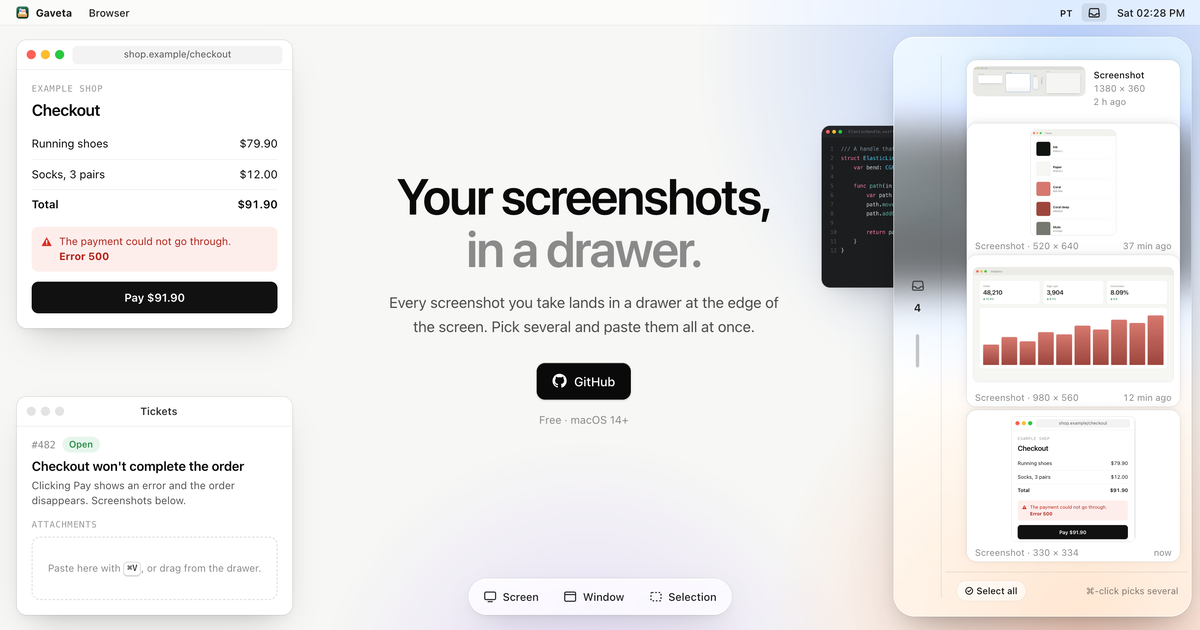
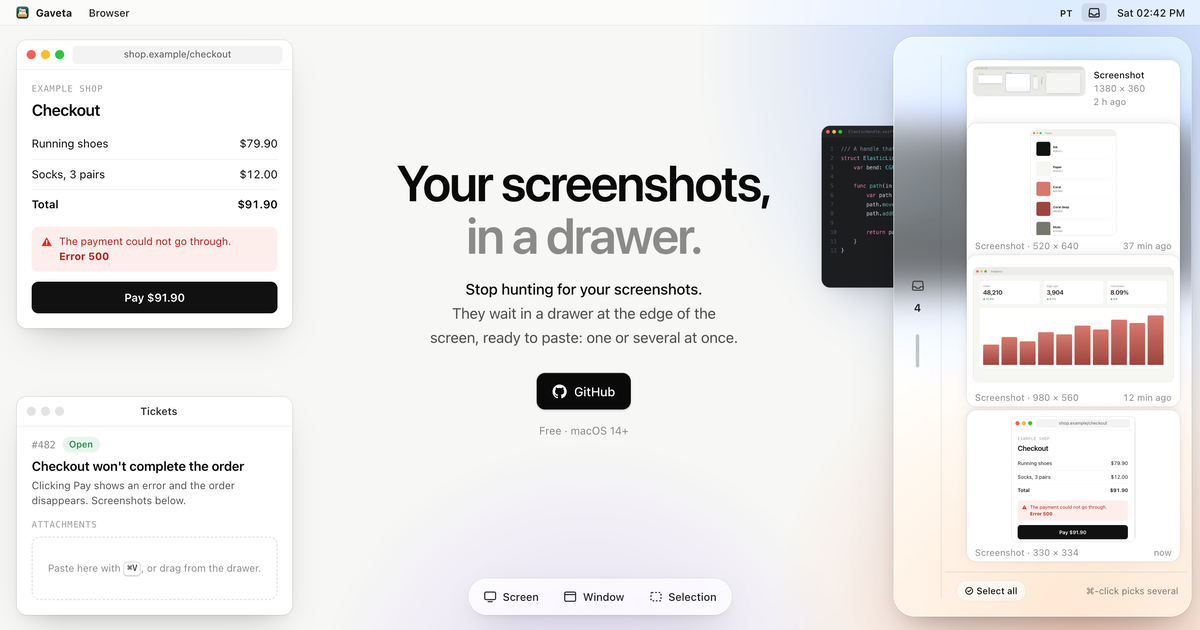
Abertura: "Pare de procurar seus prints."
O gancho fica numa linha própria, e logo depois a finalidade do app:
os prints ficam numa gaveta na borda da tela, prontos para colar, um ou
vários de uma vez. As descrições da página e da prévia de link seguem.

Changed region(s): [[0.3083, 0.2714, 0.6475, 0.4222], [0.3392, 0.4524, 0.6475, 0.5429], [0.4317, 0.573, 0.5242, 0.6937]]

diff --git a/site/en/index.html b/site/en/index.html
@@ -5,9 +5,9 @@
 <meta name="viewport" content="width=device-width, initial-scale=1, viewport-fit=cover">
 <script>try { if (localStorage.getItem("gaveta-idioma") === "pt") location.replace("../" + location.hash); } catch {}</script>
 <title>Gaveta: your screenshots in a drawer, on the Mac</title>
-<meta name="description" content="Every screenshot you take lands in a drawer at the edge of your Mac's screen. Pick several and paste them all at once. Free and open source.">
+<meta name="description" content="Stop hunting for your screenshots. On your Mac, they wait in a drawer at the edge of the screen, ready to paste: one or several at once. Free and open source.">
 <meta property="og:title" content="Gaveta: your screenshots in a drawer, on the Mac">
-<meta property="og:description" content="Every screenshot you take lands in a drawer at the edge of the screen. Pick several and paste them all at once.">
+<meta property="og:description" content="Stop hunting for your screenshots. They wait in a drawer at the edge of the screen, ready to paste: one or several at once.">
 <meta property="og:type" content="website">
 <meta property="og:locale" content="en_US">
 <meta property="og:locale:alternate" content="pt_BR">
@@ -101,7 +101,9 @@ kbd {
 }
 .titulo { margin: 0; font-size: clamp(2.4rem, 4.2vw, 4.4rem); line-height: 1.04; font-weight: 600; letter-spacing: -0.032em; text-wrap: balance; }
 .titulo span { color: var(--tinta-muda); }
-.intro { max-width: 30rem; margin: 1.2rem auto 0; color: var(--tinta-suave); font-size: clamp(1rem, 1.25vw, 1.125rem); line-height: 1.6; text-wrap: pretty; }
+.intro { max-width: 30rem; margin: 1.2rem auto 0; color: var(--tinta-suave); font-size: clamp(1rem, 1.25vw, 1.125rem); line-height: 1.6; text-wrap: balance; }
+/* the hook on a line of its own, a shade darker than the rest */
+.intro-gancho { display: block; color: var(--tinta); font-weight: 500; }
 .botao {
   display: inline-flex; align-items: center; gap: 0.55rem; height: 44px; margin-top: 1.75rem; padding: 0 1.2rem; border-radius: 10px;
   background: var(--tinta); color: var(--branco); font: 500 0.9375rem var(--sans); text-decoration: none;
@@ -481,7 +483,7 @@ kbd {
 
   <section class="abertura" aria-labelledby="titulo">
     <h1 class="titulo" id="titulo">Your screenshots,<br><span>in a drawer.</span></h1>
-    <p class="intro">Every screenshot you take lands in a drawer at the edge of the screen. Pick several and paste them all at once.</p>
+    <p class="intro"><span class="intro-gancho">Stop hunting for your screenshots.</span> They wait in a drawer at the edge of the screen, ready to paste: one or several at once.</p>
     <a class="botao" href="https://github.com/Frasca-99/gaveta">
       <svg viewBox="0 0 16 16" aria-hidden="true"><path fill="currentColor" d="M8 0C3.58 0 0 3.58 0 8c0 3.54 2.29 6.53 5.47 7.59.4.07.55-.17.55-.38 0-.19-.01-.82-.01-1.49-2.01.37-2.53-.49-2.69-.94-.09-.23-.48-.94-.82-1.13-.28-.15-.68-.52-.01-.53.63-.01 1.08.58 1.23.82.72 1.21 1.87.87 2.33.66.07-.52.28-.87.51-1.07-1.78-.2-3.64-.89-3.64-3.95 0-.87.31-1.59.82-2.15-.08-.2-.36-1.02.08-2.12 0 0 .67-.21 2.2.82.64-.18 1.32-.27 2-.27.68 0 1.36.09 2 .27 1.53-1.04 2.2-.82 2.2-.82.44 1.1.16 1.92.08 2.12.51.56.82 1.27.82 2.15 0 3.07-1.87 3.75-3.65 3.95.29.25.54.73.54 1.48 0 1.07-.01 1.93-.01 2.2 0 .21.15.46.55.38A8.01 8.01 0 0 0 16 8c0-4.42-3.58-8-8-8z"/></svg>
       GitHub

diff --git a/site/index.html b/site/index.html
@@ -10,9 +10,9 @@
   if (chosen === "en" || (!chosen && !robot && !portuguese)) location.replace("en/" + location.hash);
 } catch {}</script>
 <title>Gaveta: seus prints numa gaveta, no Mac</title>
-<meta name="description" content="Cada print que você tira cai numa gaveta de vidro na borda da tela do Mac. Escolha vários e cole todos de uma vez. Grátis e de código aberto.">
+<meta name="description" content="Pare de procurar seus prints. No Mac, eles ficam numa gaveta na borda da tela, prontos para colar: um ou vários de uma vez. Grátis e de código aberto.">
 <meta property="og:title" content="Gaveta: seus prints numa gaveta, no Mac">
-<meta property="og:description" content="Cada print que você tira cai numa gaveta de vidro na borda da tela. Escolha vários e cole todos de uma vez.">
+<meta property="og:description" content="Pare de procurar seus prints. Eles ficam numa gaveta na borda da tela, prontos para colar: um ou vários de uma vez.">
 <meta property="og:type" content="website">
 <meta property="og:locale" content="pt_BR">
 <meta property="og:locale:alternate" content="en_US">
@@ -106,7 +106,9 @@ kbd {
 }
 .titulo { margin: 0; font-size: clamp(2.4rem, 4.2vw, 4.4rem); line-height: 1.04; font-weight: 600; letter-spacing: -0.032em; text-wrap: balance; }
 .titulo span { color: var(--tinta-muda); }
-.intro { max-width: 30rem; margin: 1.2rem auto 0; color: var(--tinta-suave); font-size: clamp(1rem, 1.25vw, 1.125rem); line-height: 1.6; text-wrap: pretty; }
+.intro { max-width: 30rem; margin: 1.2rem auto 0; color: var(--tinta-suave); font-size: clamp(1rem, 1.25vw, 1.125rem); line-height: 1.6; text-wrap: balance; }
+/* the hook on a line of its own, a shade darker than the rest */
+.intro-gancho { display: block; color: var(--tinta); font-weight: 500; }
 .botao {
   display: inline-flex; align-items: center; gap: 0.55rem; height: 44px; margin-top: 1.75rem; padding: 0 1.2rem; border-radius: 10px;
   background: var(--tinta); color: var(--branco); font: 500 0.9375rem var(--sans); text-decoration: none;
@@ -486,7 +488,7 @@ kbd {
 
   <section class="abertura" aria-labelledby="titulo">
     <h1 class="titulo" id="titulo">Seus prints,<br><span>numa gaveta.</span></h1>
-    <p class="intro">Cada print que você tira cai numa gaveta na borda da tela. Escolha vários e cole todos de uma vez.</p>
+    <p class="intro"><span class="intro-gancho">Pare de procurar seus prints.</span> Eles ficam numa gaveta na borda da tela, prontos para colar: um ou vários de uma vez.</p>
     <a class="botao" href="https://github.com/Frasca-99/gaveta">
       <svg viewBox="0 0 16 16" aria-hidden="true"><path fill="currentColor" d="M8 0C3.58 0 0 3.58 0 8c0 3.54 2.29 6.53 5.47 7.59.4.07.55-.17.55-.38 0-.19-.01-.82-.01-1.49-2.01.37-2.53-.49-2.69-.94-.09-.23-.48-.94-.82-1.13-.28-.15-.68-.52-.01-.53.63-.01 1.08.58 1.23.82.72 1.21 1.87.87 2.33.66.07-.52.28-.87.51-1.07-1.78-.2-3.64-.89-3.64-3.95 0-.87.31-1.59.82-2.15-.08-.2-.36-1.02.08-2.12 0 0 .67-.21 2.2.82.64-.18 1.32-.27 2-.27.68 0 1.36.09 2 .27 1.53-1.04 2.2-.82 2.2-.82.44 1.1.16 1.92.08 2.12.51.56.82 1.27.82 2.15 0 3.07-1.87 3.75-3.65 3.95.29.25.54.73.54 1.48 0 1.07-.01 1.93-.01 2.2 0 .21.15.46.55.38A8.01 8.01 0 0 0 16 8c0-4.42-3.58-8-8-8z"/></svg>
       GitHub

diff --git a/site/vidro/pagina.html b/site/vidro/pagina.html
@@ -16,7 +16,7 @@
 
   <section class="abertura" aria-labelledby="titulo">
     <h1 class="titulo" id="titulo">Seus prints,<br><span>numa gaveta.</span></h1>
-    <p class="intro">Cada print que você tira cai numa gaveta na borda da tela. Escolha vários e cole todos de uma vez.</p>
+    <p class="intro"><span class="intro-gancho">Pare de procurar seus prints.</span> Eles ficam numa gaveta na borda da tela, prontos para colar: um ou vários de uma vez.</p>
     <a class="botao" href="{{REPO}}">
       <svg viewBox="0 0 16 16" aria-hidden="true"><path fill="currentColor" d="M8 0C3.58 0 0 3.58 0 8c0 3.54 2.29 6.53 5.47 7.59.4.07.55-.17.55-.38 0-.19-.01-.82-.01-1.49-2.01.37-2.53-.49-2.69-.94-.09-.23-.48-.94-.82-1.13-.28-.15-.68-.52-.01-.53.63-.01 1.08.58 1.23.82.72 1.21 1.87.87 2.33.66.07-.52.28-.87.51-1.07-1.78-.2-3.64-.89-3.64-3.95 0-.87.31-1.59.82-2.15-.08-.2-.36-1.02.08-2.12 0 0 .67-.21 2.2.82.64-.18 1.32-.27 2-.27.68 0 1.36.09 2 .27 1.53-1.04 2.2-.82 2.2-.82.44 1.1.16 1.92.08 2.12.51.56.82 1.27.82 2.15 0 3.07-1.87 3.75-3.65 3.95.29.25.54.73.54 1.48 0 1.07-.01 1.93-.01 2.2 0 .21.15.46.55.38A8.01 8.01 0 0 0 16 8c0-4.42-3.58-8-8-8z"/></svg>
       GitHub

diff --git a/site/vidro/vidro.css b/site/vidro/vidro.css
@@ -80,7 +80,9 @@ kbd {
 }
 .titulo { margin: 0; font-size: clamp(2.4rem, 4.2vw, 4.4rem); line-height: 1.04; font-weight: 600; letter-spacing: -0.032em; text-wrap: balance; }
 .titulo span { color: var(--tinta-muda); }
-.intro { max-width: 30rem; margin: 1.2rem auto 0; color: var(--tinta-suave); font-size: clamp(1rem, 1.25vw, 1.125rem); line-height: 1.6; text-wrap: pretty; }
+.intro { max-width: 30rem; margin: 1.2rem auto 0; color: var(--tinta-suave); font-size: clamp(1rem, 1.25vw, 1.125rem); line-height: 1.6; text-wrap: balance; }
+/* the hook on a line of its own, a shade darker than the rest */
+.intro-gancho { display: block; color: var(--tinta); font-weight: 500; }
 .botao {
   display: inline-flex; align-items: center; gap: 0.55rem; height: 44px; margin-top: 1.75rem; padding: 0 1.2rem; border-radius: 10px;
   background: var(--tinta); color: var(--branco); font: 500 0.9375rem var(--sans); text-decoration: none;
